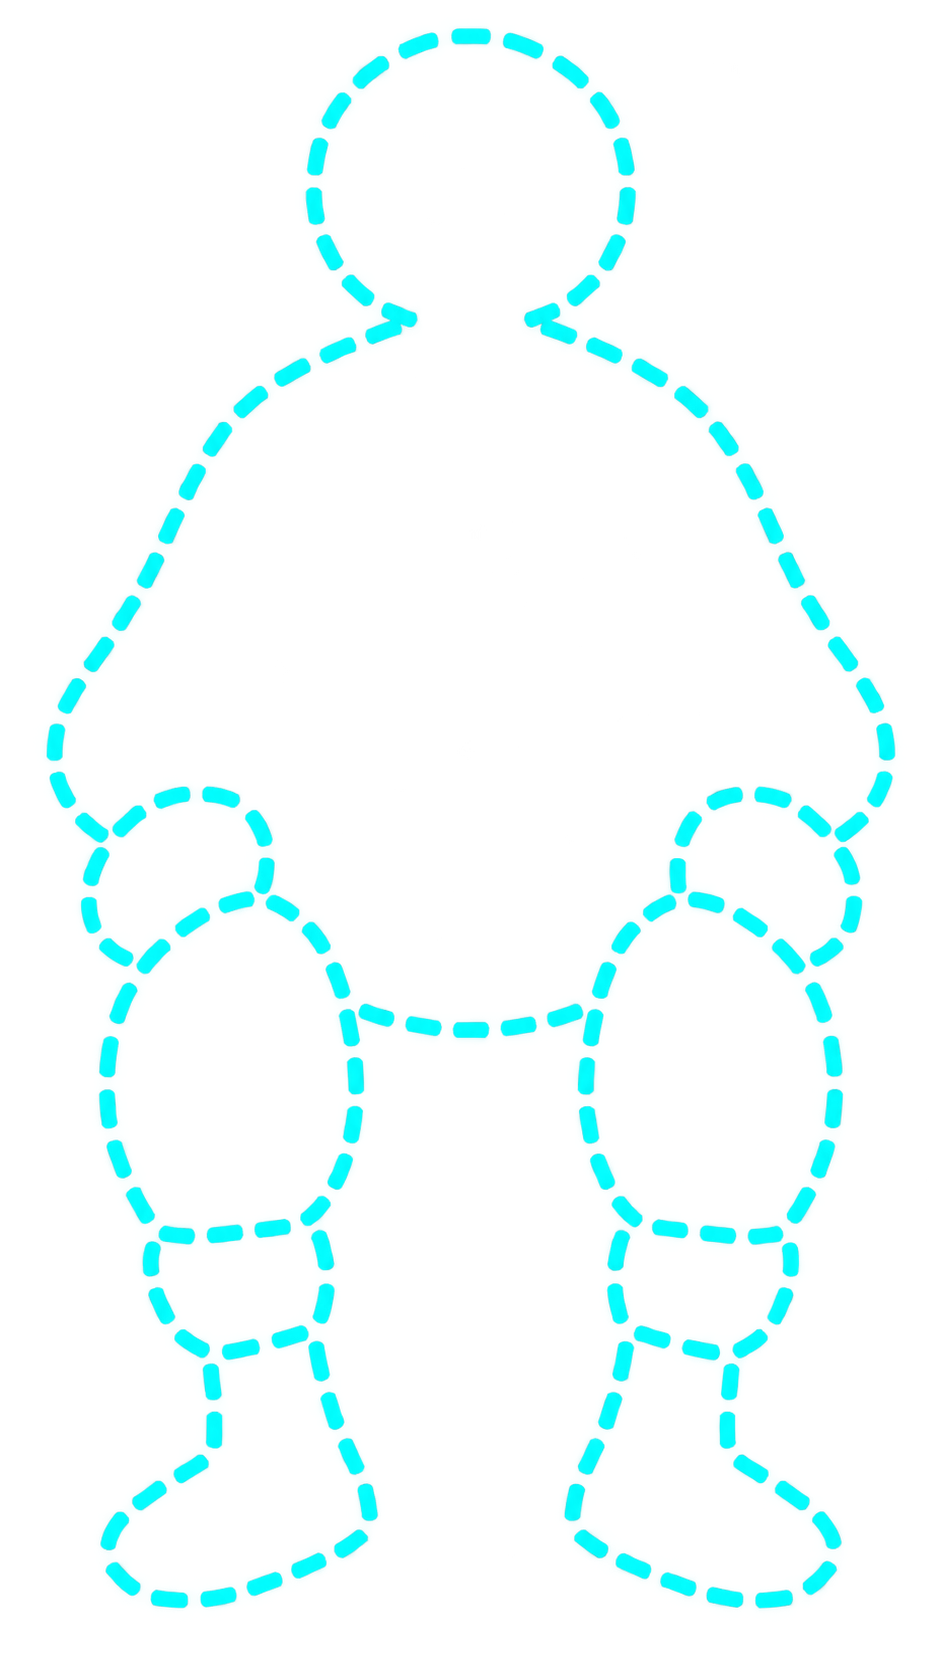
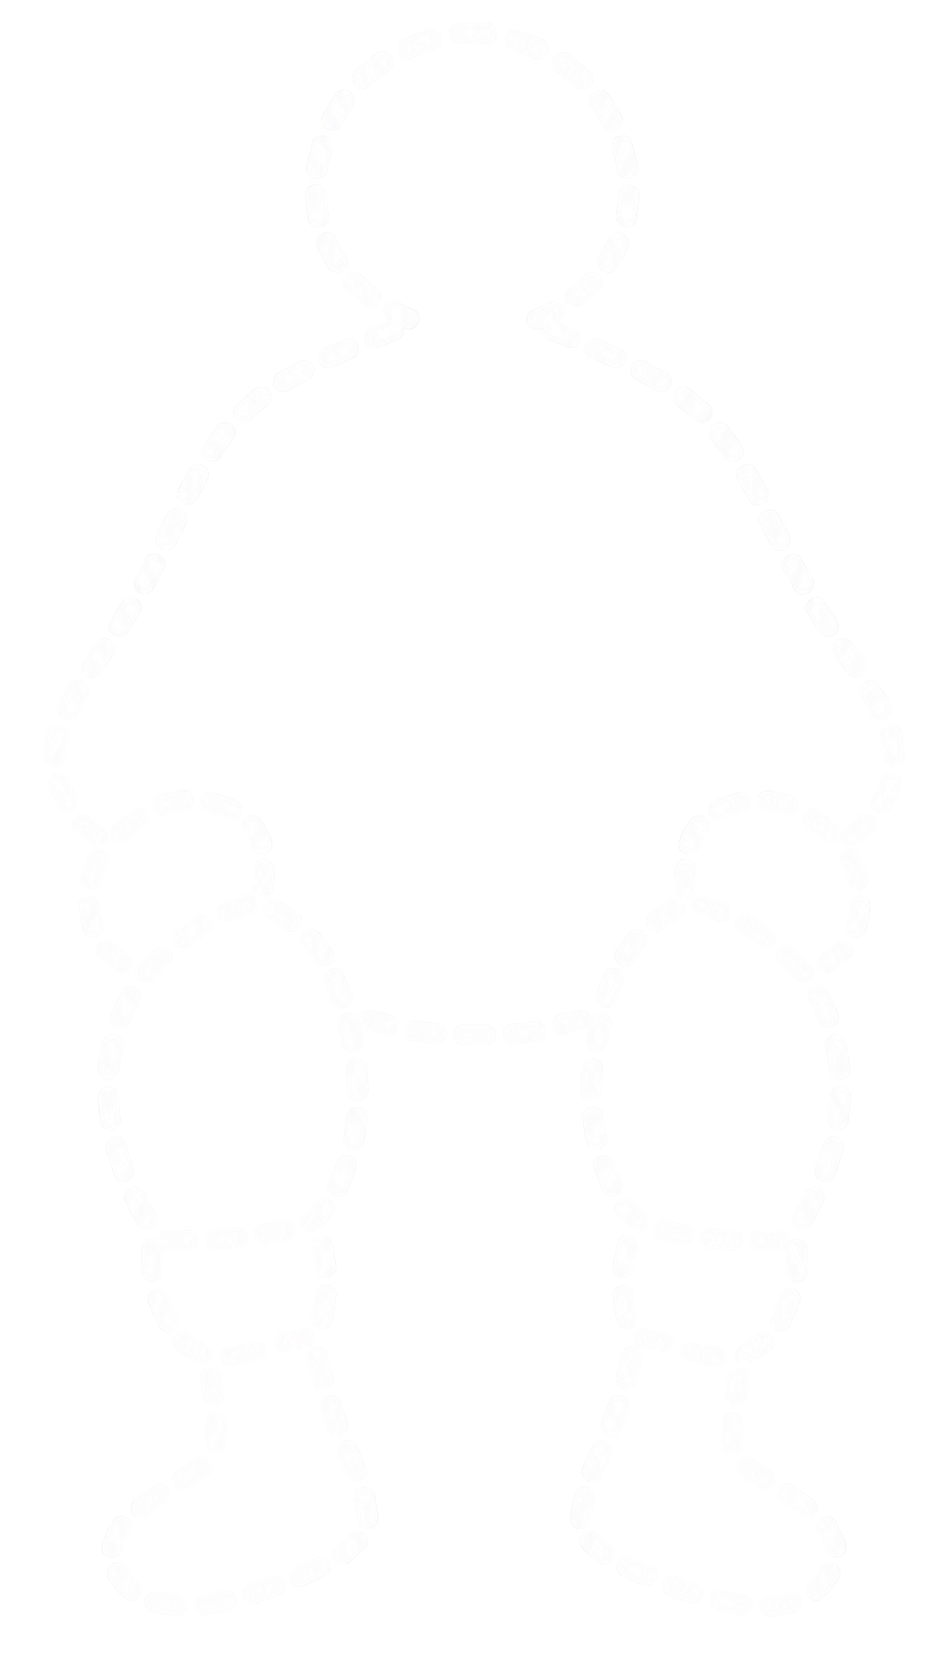
Update framing guide to white dashes; note nikon-support/ui-revamp merge
Swap framing-guide-default.png for the white-dash version. Also updates
CLAUDE.md's branching note now that nikon-support/ui-revamp are merged and
done -- day-to-day work happens directly on main going forward.

diff --git a/CLAUDE.md b/CLAUDE.md
@@ -28,7 +28,7 @@ Stop and confirm with the user before:
 - Deleting files or directories that may contain user work (killing processes is fine; deleting their data is not)
 - Architectural changes (switching desktop shell, replacing the camera stack)
 - Changing settings **on the physical camera** beyond what the grey-card/QA flows themselves do
-- Force-pushing or rewriting history on the remote (repo: https://github.com/JSAmedeo/camera-flight-check, private). Normal commits/pushes on feature branches are fine; commit at meaningful checkpoints with descriptive messages. `main` holds field-validated states; feature work happens on branches (current: `nikon-support`)
+- Force-pushing or rewriting history on the remote (repo: https://github.com/JSAmedeo/camera-flight-check, private). Normal commits/pushes are fine; commit at meaningful checkpoints with descriptive messages. `main` holds field-validated states. `nikon-support` and `ui-revamp` were merged into `main` 2026-09-22 (field-tested end to end, including the grey-card escape hatch/flash-output fix) and are done. Day-to-day work now happens directly on `main`, one field-tested checkpoint at a time, unless something comes up big enough to need isolating on its own branch first (a call to make at the time, not a standing default)
 
 ## User Working Style
 
